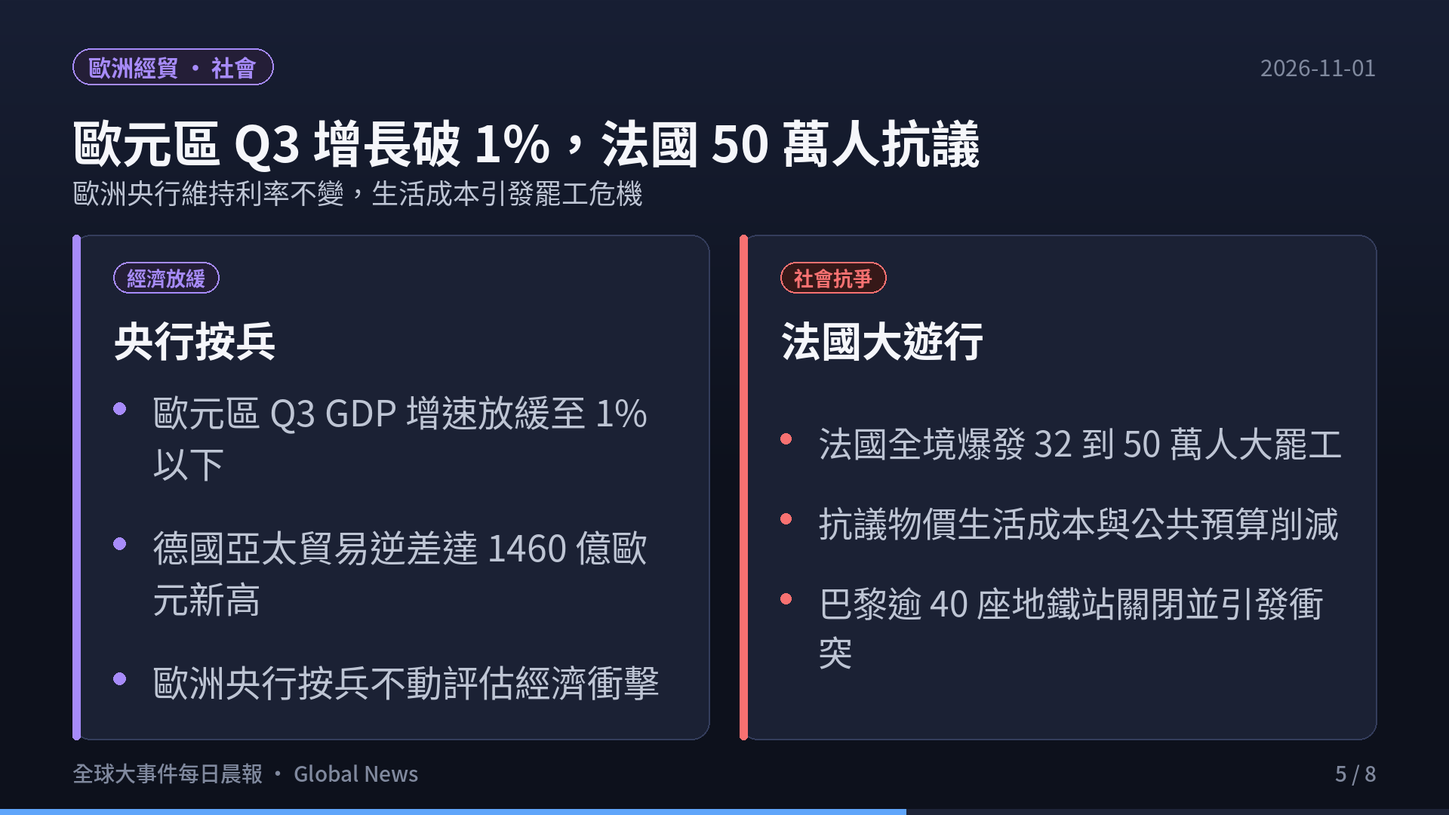
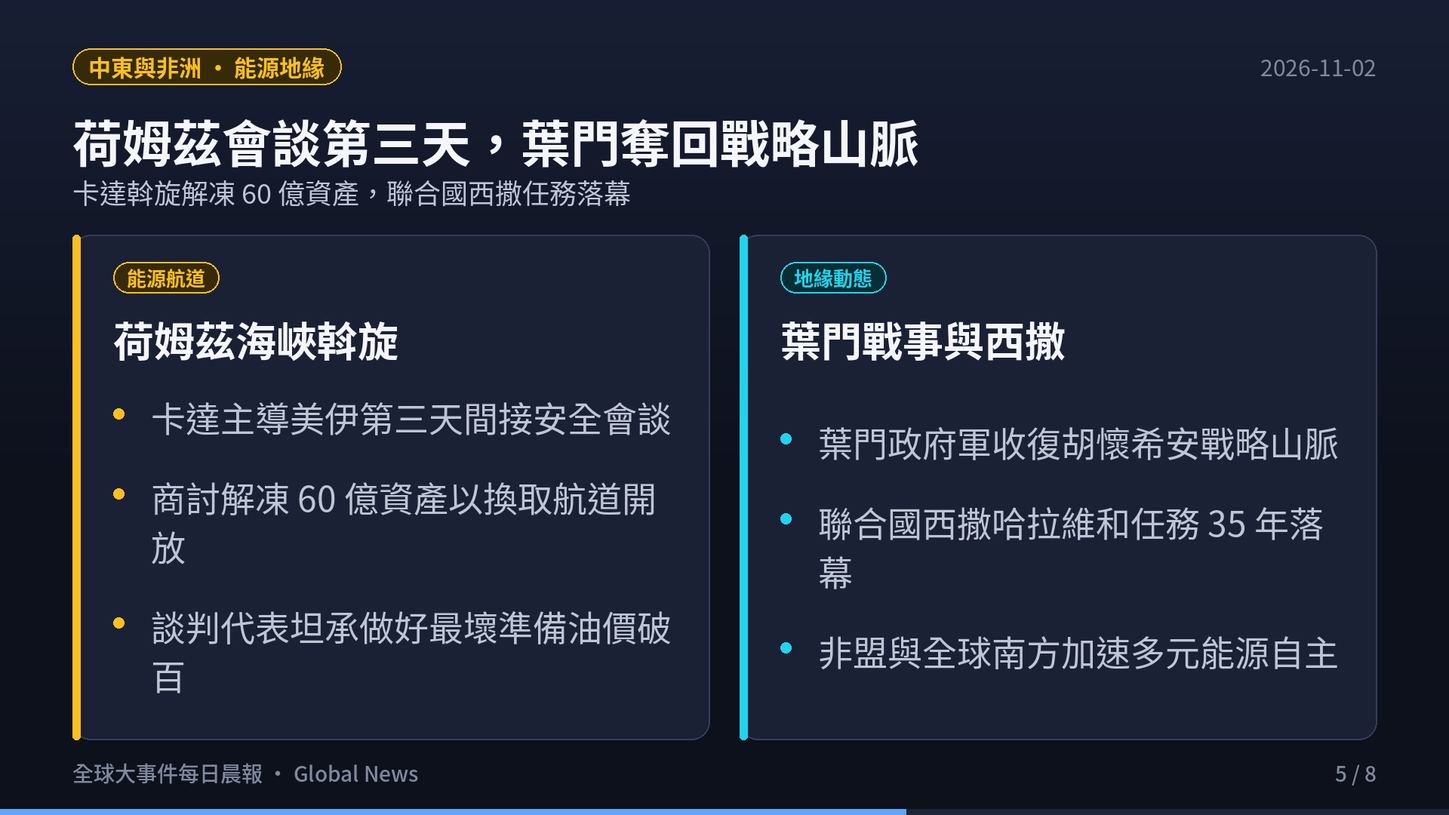
feat(blog): add global news daily report 2026-11-02 with slides and video

diff --git a/content/global-news/index.md b/content/global-news/index.md
@@ -1,26 +1,26 @@
 ---
-title: "全球大事件每日晨報 · 2026-11-01：G20 外長會無公報閉幕、美烏 21 億美元愛國者軍援與印太 Quad 供應鏈同盟"
+title: "全球大事件每日晨報 · 2026-11-02：烏土協議重啟黑海糧道、美伊荷姆茲海峽間接會談、法國罷工與德國示威失控"
 url: "/global-news/"
-date: 2026-11-01T05:30:00+08:00
+date: 2026-11-02T05:30:00+08:00
 draft: false
 image: cover.png
 cover: "https://ckw19810413.github.io/global-news/cover.png"
-description: "2026-11-01 全球重大事件深度解析：美歐亞非及各大經濟體最新動態。涵蓋 G20 外長會航道與關鍵礦產角力、美批准 21 億美元烏克蘭防空軍援、印太 Quad 供應鏈去風險化同盟、歐元區經濟放緩與法國 50 萬人大罷工、中東荷姆茲危機推升油價四連漲逼近 104 美元，以及全球前十大經濟體通膨與製造業分化。"
-tags: ["全球大事件", "國際局勢", "地緣政治", "G20", "Quad", "烏克蘭", "總體經濟", "供應鏈", "油價", "通膨"]
+description: "2026-11-02 全球重大事件深度解析：美歐亞非及各大經濟體最新動態。涵蓋烏克蘭與土耳其協議重啟黑海糧食走廊、卡達斡旋美伊解凍 60 億資產以換取荷姆茲海峽航行權、美期中選舉最後倒數司法攻防、法國 32 萬人生活成本大罷工、德國法蘭克福街頭失控搶劫、FBI 指控北韓涉幣安 60 億駭案，以及全球前十大經濟體核心總體數據全覽。"
+tags: ["全球大事件", "國際局勢", "地緣政治", "黑海糧道", "荷姆茲海峽", "烏克蘭", "總體經濟", "供應鏈", "油價", "通膨"]
 categories: ["國際局勢", "總體經濟"]
 aliases:
-  - "/blog/2026-11-01-global-news/"
-  - "/global-news/2026-11-01/"
+  - "/blog/2026-11-02-global-news/"
+  - "/global-news/2026-11-02/"
 ---
 
-> **觀測週期**：2026-11-01 晨間即時彙整  
+> **觀測週期**：2026-11-02 晨間即時彙整  
 > **情報涵蓋**：全球六大洲（北美、南美、歐洲、亞洲、中東、非洲、大洋洲）與全球前 10 大經濟體  
-> **核心來源**：G20 外長峰會閉幕聲明、各國央行利率決議、路透社（Reuters）、新華社（Xinhua）、Business Recorder、ApeWisdom 即時金融情報庫  
-> **定位宗旨**：以客觀數據、第一手官方公報與產業鏈結構為準繩，剔除短期情緒噪音，提煉出真正驅動全球資金流向與地緣版圖重構的核心脈絡。
+> **核心來源**：各國政府公報、路透社（Reuters）、新華社（Xinhua）、IMF 數據庫、ApeWisdom 即時金融情報庫  
+> **定位宗旨**：以客觀數據、官方決策與供應鏈結構為準繩，剔除短期情緒噪音，提煉出真正驅動全球資金流向與地緣版圖重構的核心脈絡。
 
 <div style="margin: 2rem 0; border-radius: 12px; overflow: hidden; box-shadow: 0 4px 20px rgba(0,0,0,0.12); border: 1px solid rgba(128,128,128,0.2);">
   <div style="position: relative; padding-bottom: 56.25%; height: 0; overflow: hidden; background: #0f121c;">
-    <iframe src="https://www.youtube.com/embed/npqcZFLGcnc" title="2026.11.01 全球大事件每日晨報" style="position: absolute; top:0; left: 0; width: 100%; height: 100%; border: 0;" allow="accelerometer; autoplay; clipboard-write; encrypted-media; gyroscope; picture-in-picture; web-share" allowfullscreen></iframe>
+    <iframe src="https://www.youtube.com/embed/Ch3fy4dV6qQ" title="2026.11.02 全球大事件每日晨報" style="position: absolute; top:0; left: 0; width: 100%; height: 100%; border: 0;" allow="accelerometer; autoplay; clipboard-write; encrypted-media; gyroscope; picture-in-picture; web-share" allowfullscreen></iframe>
   </div>
   <div style="background: rgba(0,0,0,0.03); padding: 10px 16px; font-size: 0.9rem; color: var(--card-text-color-secondary, #666); text-align: center; border-top: 1px solid rgba(128,128,128,0.15);">
     🎬 <strong>120 秒晨間快報影音動態版</strong>（含 AI 自然神經語音朗讀與背景配樂）
@@ -31,57 +31,65 @@ aliases:
 
 ## 🎯 今日全球前 6 大核心事件深度拆解
 
-![焦點 1：G20 外長會無公報閉幕](s02.png)
+![焦點 1：期中選舉最後倒數，法官駁回禁令訴訟](s02.png)
 
-### 1. 美洲與全球治理：G20 外長會無公報閉幕，航道自由與礦產分歧加深
-- **事件脈絡**：為期兩天的二十國集團（G20）外長會議在美國國務卿馬可·魯比歐（Marco Rubio）主持下閉幕。由於各成員國在烏克蘭戰事與美伊軍事緊張局勢上存在無法彌合的深層分歧，本次會議最終未能發表聯合公報（Joint Communique）。
-- **關鍵爭端**：
-  - **關鍵海運水道安全**：美方及其盟友在閉幕記者會上強烈強調荷姆茲海峽（Strait of Hormuz）與黑海（Black Sea）的航行自由與商業船舶通行權，指責伊朗與非國家行為體威脅全球能源命脈。
-  - **關鍵礦產與供應鏈**：大宗商品與關鍵礦產（稀土、鋰、鎳）供應鏈的安全保障成為多空角力中心，新興市場國家普遍對已開發國家的出口限制防衛性條款抱持高度戒心。
-- **美國內政聯動**：美國期中選舉（Midterm Elections）正式進入最後倒數週末，加州海外與郵寄選票認定、阿拉斯加參院席次之司法調查全面白熱化，政治不確定性導致美股高檔避險情緒升溫。
-
----
-
-![焦點 2：美批准 21 億美元愛國者軍援與烏南部人道停火](s03.png)
-
-### 2. 歐洲防務與地緣：美批准 21 億美元愛國者 PAC-3 軍援，烏南部奧列什基停火
-- **重大軍售案落定**：美國國務院於 10 月 31 日正式批准向烏克蘭出售 **500 枚愛國者三型（PAC-3）防空飛彈**，合約估計總值高達 **21 億美元**。此舉被視為川普第二任政府啟動以來對基輔最大規模的防禦性武器補給，旨在協助烏克蘭抵禦入冬後針對能源電網的飽和打擊。
-- **罕見局部人道停火**：
-  - 在梵蒂岡教宗以及多方國際斡旋之下，俄軍控制的赫爾松州南部城鎮奧列什基（Oleshky）實施為期 **6 天的局部人道停火**。
-  - 受困平民在缺水、斷電數年後首度獲准跨越前線撤離回烏克蘭控制區，這是俄烏爆發全面衝突以來持續時間最長的一次局部人道走廊。
+### 1. 美洲政局與資本市場：期中選舉進入最後倒數，法官駁回禁令訴訟，長債殖利率高企
+- **期中選舉司法訴訟定案**：
+  - 美國聯邦法官正式駁回了川普團隊要求阻止阿拉斯加州參院選舉結果認證的司法禁令申請，掃清了選舉認證程序的一項關鍵法律障礙。
+  - 兩黨在全美多個關鍵搖擺州針對海外選票認定與郵寄投票規則的攻防全面進入白熱化。
+- **無風險利率持續維持高檔**：
+  - 10 年期美債殖利率維持在 **4.92%** 的高檔震盪區間，持續壓抑美股市場的股權風險溢價（ERP）。
+  - 華爾街大型機構普遍收緊防禦倉位，將配置核心轉向兼具自由現金流與強大定價權的龍頭標的。
 
 ---
 
-![焦點 3：Quad 外長會深化關鍵礦產聯盟](s04.png)
+![焦點 2：烏土協議啟動黑海糧道，美軍援愛國者](s03.png)
 
-### 4. 亞洲與印太同盟：印太 Quad 外長深化聯盟，聯手反對關鍵礦產出口管制
-- **四方安全對話（Quad）聯合聲明**：美國、澳洲、印度與日本外長於 10 月 31 日在亞特蘭大發表聯合聲明，承諾共同構建具備高度韌性、去風險化的全球高科技供應鏈。
-- **反經濟脅迫與出口限制**：
-  - 聲明強烈譴責任何以非市場手段、任意管制出口為手段的「經濟脅迫（Economic Coercion）」，針對關鍵礦產與先進材料供應展開多邊協調機制。
-  - 日本對特定稀缺金屬出口禁令表達強烈關切；美國則加緊推動籌組 G20 礦產安全聯盟。
-- **美印雙邊協議推進**：美國與印度官方證實，兩國正針對雙邊先進防務合作、半導體投資與能源技術轉移協議加緊展開具體磋商，印度作為供應鏈替代樞紐的戰略地位持續鞏固。
-
----
-
-![焦點 5：歐元區經濟放緩與法國 50 萬人抗議](s05.png)
-
-### 4. 歐洲經貿與社會衝擊：歐元區 Q3 增長破 1% 央行按兵，法國 50 萬人上街抗議
-- **歐元區 GDP 顯著失速**：歐元區第三季經濟成長率（GDP）終值公布，年增率放緩至 **0.8% ~ 1.1%**，正式跌破象徵穩健復甦的 1% 門檻。歐洲央行（ECB）於 10 月 30 日利率會議上宣布維持基準利率不變，政策立場在通膨黏性與經濟衰退風險之間維持艱難平衡。
-- **德國亞太貿易逆差創歷史紀錄**：德國統計部門公布最新測算，2026 年德國對亞太地區貿易逆差預計將達到創紀錄的 **1,460 億歐元（約 1,630 億美元）**，德國傳統汽車與工業機械出口動能面臨結構性萎縮。
-- **法國全國大罷工**：
-  - 法國全境於週末爆發多達 **32 萬至 50 萬人**的大規模街頭抗議與罷工（巴黎示威人數達 7 萬至 20 萬）。
-  - 群眾抗議物價生活成本飛漲、公共服務預算大幅削減，巴黎公共交通營運商 RATP 緊急關閉逾 40 座地鐵站，部分街區爆發警民催淚瓦斯衝突。
+### 2. 歐洲防務與黑海走廊：烏土協議重啟黑海糧食走廊，美落實 21 億愛國者軍援
+- **重啟黑海民生航運通道**：
+  - 烏克蘭總統澤倫斯基抵達伊斯坦堡會晤土耳其總統艾爾段，雙方正式宣布達成全面協議，聯手推動重建「黑海糧食走廊（Black Sea Grain Corridor）」。
+  - 土耳其承諾全力支援黑海航道之安全巡弋與航行保障，防止國際糧價與肥料供應鏈再度因戰事受阻而暴漲。
+- **防空防禦系統落實交付**：
+  - 美國國務院落實向烏克蘭提供 **500 枚愛國者三型（PAC-3）防空飛彈**（總額 21 億美元），全面鞏固冬季防空電網。
+  - 赫爾松南部奧列什基（Oleshky）為期 6 天的罕見局部人道停火走廊持續運轉，協助前線受困平民安全撤離。
 
 ---
 
-![焦點 5：荷姆茲緊張油價連四漲與俄非核電合作](s06.png)
+![焦點 3：法國 32 萬人罷工，德法蘭克福街頭失控](s04.png)
 
-### 5. 中東能源危機與非洲基建：荷姆茲航道緊張油價四連漲，俄非簽署 2000MW 核電協議
-- **國際油價逼近 104 美元**：
-  - 荷姆茲海峽再度傳出油輪遭受襲擾警訊，引發全球原油海運供應鏈高度緊繃。
-  - 布蘭特原油期貨價格創下連續第四個月上漲，目前站穩每桶 **104 美元** 高檔，對全球抗通膨進程帶來嚴峻考驗。
-  - 沙烏地阿拉伯防空部隊在利雅德周邊攔截敵對無人機；伊朗外長阿拉格齊（Araghchi）公開表示「德黑蘭目前無意與美官員會面」，並由卡達與巴基斯坦擔任關鍵斡旋角色。
-- **俄羅斯在非擴張核能基建**：迦納外交部長在俄羅斯-非洲峰會後正式宣布，迦納已與俄羅斯達成合作開發 **2,000 MW（兆瓦）核能發電廠** 之協議，旨在根本解決西非電力短缺並推動本土工業化進程，凸顯全球南方國家在地緣博弈中的多元能源結盟取向。
+### 3. 歐洲社會與工業震盪：法國 32 萬人抗議生活成本，德國法蘭克福爆發搶劫與衝突
+- **法國全境抗爭浪潮**：
+  - 巴黎及全法各主要城市爆發超過 **32 萬人**的大規模示威抗議，工會與群眾強烈抗議物價生活成本居高不下以及公共財政預算的大幅削減。
+  - 警方在里昂、格勒諾布爾等多地動用催淚瓦斯維持秩序，部分公共運輸與市政服務陷入癱瘓。
+- **德國多地示威演變為失控暴力**：
+  - 德國法蘭克福等主要城市週末示威活動失控，出現沿街縱火焚燒路障與商店遭洗劫（Looting）的暴力事件，社會治安警報大作。
+- **英國企業寒冬**：
+  - 英國寬頻巨頭 Virgin Media O2 宣布將裁減數千名員工，凸顯高利率與消費緊縮對歐洲電信與通訊基建企業營運造成的實質擠壓。
+
+---
+
+![焦點 4：荷姆茲會談第三天，葉門奪回戰略山脈](s05.png)
+
+### 4. 中東能源航道與非洲安全：卡達斡旋美伊解凍 60 億資產，葉門政府軍收復戰略山脈
+- **荷姆茲海峽重啟談判角力**：
+  - 卡達擔任中介的美伊間接安全談判進入關鍵第三天，主要聚焦解凍伊朗被扣押的 **60 億美元** 海外資產，以換取重啟荷姆茲海峽之航行安全。
+  - 談判各方坦承「做好最壞打算（braced for worst）」，航運風險推升布蘭特原油持續站穩每桶 **104 美元** 高檔。
+- **葉門戰況取得突破**：
+  - 葉門政府軍在空軍掩護下發起攻勢，完全收復賈夫省胡懷希安（Huwayshian）戰略山脈，瓦解了胡塞武裝針對省會阿爾哈茲姆的第一道防禦線。
+- **聯合國西撒任務落幕**：
+  - 聯合國安理會未能就延長授權達成共識，維持了長達 **35 年** 的西撒哈拉維和任務（MINURSO）正式告終，北非地緣格局面臨重新洗牌。
+
+---
+
+![焦點 5：印度在野百萬集會，FBI 追幣安 60 億駭案](s06.png)
+
+### 5. 亞洲政局與網絡安全：印度在野陣營發動大規模集會，FBI 指控北韓涉幣安 60 億駭案
+- **印度在野陣營政治風暴**：
+  - 印度在野黨聯盟號召全印度數十萬人舉行大規模集會抗爭，強烈要求選委會主席辭職，引發外界對選舉中立性與國內政局穩定性的高度關注。
+  - 儘管政治雜音升溫，美日印澳 Quad 關鍵礦產與先進半導體防護網仍加速推進。
+- **FBI 揭露史上最大加密貨幣竊案之一**：
+  - 美國聯邦調查局（FBI）正式證實北韓國家駭客組織涉及 **60 億美元的幣安（Binance）駭客攻擊事件**。
+  - FBI 公開呼籲全球去中心化金融（DeFi）社群全面列入黑名單，凍結涉案比特幣（BTC）、以太坊（ETH）與 Solana（SOL）地址，引發鏈上資產安全大震盪。
 
 ---
 
@@ -89,18 +97,18 @@ aliases:
 
 ### 6. 全球前十大經濟體核心指標與趨勢橫向比較
 
-| 排名 | 國家 / 經濟體 | 核心總體經濟數據 / 最新指標 | 2026-11-01 即時動態與政策取向 | 全球產業鏈與市場意涵 |
+| 排名 | 國家 / 經濟體 | 核心總體經濟數據 / 最新指標 | 2026-11-02 即時動態與政策取向 | 全球產業鏈與市場意涵 |
 |:---:|:---|:---|:---|:---|
-| **1** | **美國 (USA)** | 10年期美債殖利率 **4.92%** | G20 外長會航道交鋒；期中選舉最後衝刺；國務院批准 21 億美元軍援 | 無風險利率維持高檔，股權風險溢價（ERP）壓縮，長線資金重視現金流。 |
-| **2** | **中國 (China)** | 10月官方製造業 PMI **49.8** | 官方製造業近 4 個月第 3 度陷入萎縮；房市與內需政策持續發力 | 工業復甦動能偏弱，市場聚焦進一步財政刺激力道與貨幣寬鬆節奏。 |
-| **3** | **德國 (Germany)** | Q3 GDP 年增 **1.0%** · 逆差 **€146B** | 對亞太貿易逆差創 1,460 億歐元歷史新高；能源轉型與工業成本高企 | 傳統製造業出口優勢受侵蝕，企業利潤率受到原物料與匯率雙重夾擊。 |
-| **4** | **日本 (Japan)** | 9月核心通膨指數 **3年新高** | 扣除一次性因素後核心物價飆升；日銀 (BOJ) 後續升息壓力骤增 | 日圓匯率防守戰持續，日債殖利率曲線面臨調整，牽動全球套息交易平倉。 |
-| **5** | **印度 (India)** | GDP 年增率維持 **6.8%** 高速 | 印太 Quad 關鍵礦產聯盟核心夥伴；美印經貿及安全協議加速談判 | 全球供應鏈南移之最大直接受惠者，孟買 Sensex 指數維持相對強勢。 |
-| **6** | **英國 (UK)** | 10月房價年增率創 **2024年1月來新低** | 央行高利率政策壓抑房貸需求；生活成本攀升導致消費者支出謹慎 | 內需零售與地產市場降溫，市場預期英國央行後續降息步伐可能加快。 |
-| **7** | **法國 (France)** | 示威人數達 **32~50 萬** · 評級維持 | 國際評級機構暫未降級，但 50 萬人全境大罷工凸顯公共財政赤字深層矛盾 | 政治與財政治理兩難，限制政府財政刺激空間，歐元匯價震盪。 |
-| **8** | **義大利 (Italy)** | 國債利差 (BTP-Bund) 保持穩定 | 歐元區經濟增速跌破 1%，依賴歐盟復甦基金支持基礎建設投資 | 南歐外圍國對高利率耐受度受考驗，財政緊縮限制實質經濟成長空間。 |
-| **9** | **加拿大 (Canada)** | 央行降息預期升溫 · 能源出口強勁 | 受益於國際油價逼近 104 美元，但受美加雙邊貿易壁壘議題牽動 | 能源商品出口支撐經常帳，但房地產貸款再融資壓力持續釋放。 |
-| **10** | **澳洲 (Australia)** | Q3 CPI 核心通膨 **超預期升溫** | 燃油與民生物資價格反彈；澳洲央行 (RBA) 降息預期破滅、升息風險再起 | 原物料出口獲利改善，但國內高通膨限制降息空間，家計債務負擔沉重。 |
+| **1** | **美國 (USA)** | 10年期美債殖利率 **4.92%** · 通膨 **3.6%** | 期中選舉最後衝刺；阿拉斯加訴訟遭駁回；21億軍援落實 | 長天期資金成本維持高檔，股權風險溢價受限，防禦型價值股獲資金青睞。 |
+| **2** | **中國 (China)** | 10月製造業 PMI **49.8** · 通膨 **1.0%** | 製造業接近景氣榮枯線邊緣；房市支持政策與降準降息窗口持續開啟 | 復甦動能穩步修復，內需消費與高端裝備製造為政策重點發力方向。 |
+| **3** | **德國 (Germany)** | 通膨率 **2.7%** · 亞太逆差創紀錄 | 法蘭克福示威失控搶劫；出口動能受高能耗成本與地緣摩擦雙重擠壓 | 歐洲經濟火車頭動能承壓，製造業外移與產業鏈去風險化迫在眉睫。 |
+| **4** | **日本 (Japan)** | 核心 CPI 通膨升至 **2.7%** · 債務 **199%** | 日銀升息壓力驟增；日圓匯率防守戰持續，套息交易平倉潮隱現 | 債券殖利率上限面臨考驗，全球資本流向受到日圓升值潛在衝擊。 |
+| **5** | **印度 (India)** | GDP 年增率 **6.8%** · 通膨 **5.0%** | 在野抗議升溫；印太 Quad 關鍵礦產聯盟核心夥伴；跨國製造投資湧入 | 作為全球供應鏈多元化替代樞紐，製造業外資流入維持強勁動能。 |
+| **6** | **英國 (UK)** | 通膨率 **3.3%** · 失業率 **5.3%** | Virgin Media O2 裁員數千人；生活成本上升壓抑內需消費支出 | 電信與基建成本削減反映高利率後遺症，市場預期英國央行降息呼聲升高。 |
+| **7** | **法國 (France)** | 通膨率 **2.4%** · 示威人數 **32 萬+** | 全國大規模抗議生活成本高漲與公共削減；巴黎交通及市政受嚴重干擾 | 財政赤字壓力限制政策擴張空間，社會福利支出與財政整頓矛盾難解。 |
+| **8** | **義大利 (Italy)** | 通膨率 **3.3%** · 債務佔比 **137.9%** | 歐元區成長放緩下國債利差維持穩定；高度依賴歐盟復甦基金資助 | 高負債水準對長期利率敏感度高，基礎建設投資成為維持經濟動能主軸。 |
+| **9** | **加拿大 (Canada)** | 通膨率 **2.8%** · 失業率 **6.5%** | 國際油價逼近 104 美元挹注經常帳；美加貿易走勢與房貸展期壓力並存 | 能源商品出口支撐本國貨幣，但家計部門房貸再融資成本持續增加。 |
+| **10** | **澳洲 (Australia)** | 通膨率 **3.9%** · 債務佔比 **52.6%** | 核心 CPI 通膨高企；澳洲央行 (RBA) 降息預期落空，甚至面臨緊縮壓力 | 原物料出口獲利維持穩健，但國內高物價與房貸利息使消費意願轉趨保守。 |
 
 ---
 
@@ -108,15 +116,15 @@ aliases:
 
 ![今日重點總結](s08.png)
 
-1. **地緣裂痕加劇與供應鏈版圖重構**：
-   - G20 外長會的「無公報閉幕」清楚表明，全球多邊協商框架正在退化，取而代之的是以 **Quad（美日印澳）**、**美烏雙邊軍援**、**俄非核能能源結盟** 為代表的區域排他性同盟。
-   - 關鍵礦產（稀土、鋰）與戰略航道（荷姆茲、黑海）的安全保障成為最核心的國家安全籌碼。
-2. **油價破百與「黏性通膨」捲土重來**：
-   - 布蘭特原油連續 4 個月上揚並逼近每桶 104 美元，加上日本、澳洲通膨指標超預期，正在粉碎全球央行「迅速全面降息」的樂觀幻想。
-   - 能源輸入型通膨可能使得成熟市場的高利率環境維持比預期更長的時間（Higher for Longer）。
-3. **宏觀分化環境下的資產配置紀律**：
-   - 在 10 年期美債殖利率維持在 4.9% 附近的背景下，現金與超短天期國庫券依然提供堅實的無風險收益屏障。
-   - 投資組合應降低對高負債、無實質現金流成長企業的敞口，優先布局具備**強大供應鏈定價權、不可替代真實數據與專利護城河**的全球領先企業。
+1. **戰略航道與關鍵基礎設施的地緣博弈**：
+   - 烏克蘭與土耳其聯手推動重啟 **黑海糧食走廊**，加上美伊在卡達斡旋下就 **荷姆茲海峽** 重啟展開談判，清楚表明能源與糧食通道已成為大國地緣斡旋的最核心籌碼。
+   - 任何航道談判的進退都將直接牽動布蘭特原油（逼近 104 美元）與大宗原物料走勢。
+2. **通膨黏性與歐美社會壓力的外溢效應**：
+   - 法國 32 萬人大罷工、德國法蘭克福街頭失控抢劫以及英國電信巨頭大幅裁員，表明長期高利率與輸入型通膨對已開發國家家庭與企業資產負債表的侵蝕已浮上檯面。
+   - 歐美央行降息空間受到通膨黏性與能源價格制約，全球貨幣寬鬆路徑遠比市場早期預期的更具顛簸性。
+3. **高利率分化格局下的資產配置守則**：
+   - 10 年期美債殖利率逼近 4.92%，資金成本的剛性上升要求投資人恪守「防禦優先、重質不重量」的紀律。
+   - 降低高負債與高槓桿標的敞口，聚焦於具備**真實現金流保護、核心技術壁壘與供應鏈定價權**的防禦型優質資產。
 
 ---
 

diff --git a/content/blog/2026-11-02-global-news/index.md b/content/blog/2026-11-02-global-news/index.md
@@ -1,0 +1,143 @@
+---
+title: "全球大事件每日晨報 · 2026-11-02：烏土協議重啟黑海糧道、美伊荷姆茲海峽間接會談、法國罷工與德國示威失控"
+url: "/global-news/"
+date: 2026-11-02T05:30:00+08:00
+draft: false
+image: cover.png
+cover: "https://ckw19810413.github.io/global-news/cover.png"
+description: "2026-11-02 全球重大事件深度解析：美歐亞非及各大經濟體最新動態。涵蓋烏克蘭與土耳其協議重啟黑海糧食走廊、卡達斡旋美伊解凍 60 億資產以換取荷姆茲海峽航行權、美期中選舉最後倒數司法攻防、法國 32 萬人生活成本大罷工、德國法蘭克福街頭失控搶劫、FBI 指控北韓涉幣安 60 億駭案，以及全球前十大經濟體核心總體數據全覽。"
+tags: ["全球大事件", "國際局勢", "地緣政治", "黑海糧道", "荷姆茲海峽", "烏克蘭", "總體經濟", "供應鏈", "油價", "通膨"]
+categories: ["國際局勢", "總體經濟"]
+aliases:
+  - "/blog/2026-11-02-global-news/"
+  - "/global-news/2026-11-02/"
+---
+
+> **觀測週期**：2026-11-02 晨間即時彙整  
+> **情報涵蓋**：全球六大洲（北美、南美、歐洲、亞洲、中東、非洲、大洋洲）與全球前 10 大經濟體  
+> **核心來源**：各國政府公報、路透社（Reuters）、新華社（Xinhua）、IMF 數據庫、ApeWisdom 即時金融情報庫  
+> **定位宗旨**：以客觀數據、官方決策與供應鏈結構為準繩，剔除短期情緒噪音，提煉出真正驅動全球資金流向與地緣版圖重構的核心脈絡。
+
+<div style="margin: 2rem 0; border-radius: 12px; overflow: hidden; box-shadow: 0 4px 20px rgba(0,0,0,0.12); border: 1px solid rgba(128,128,128,0.2);">
+  <div style="position: relative; padding-bottom: 56.25%; height: 0; overflow: hidden; background: #0f121c;">
+    <iframe src="https://www.youtube.com/embed/Ch3fy4dV6qQ" title="2026.11.02 全球大事件每日晨報" style="position: absolute; top:0; left: 0; width: 100%; height: 100%; border: 0;" allow="accelerometer; autoplay; clipboard-write; encrypted-media; gyroscope; picture-in-picture; web-share" allowfullscreen></iframe>
+  </div>
+  <div style="background: rgba(0,0,0,0.03); padding: 10px 16px; font-size: 0.9rem; color: var(--card-text-color-secondary, #666); text-align: center; border-top: 1px solid rgba(128,128,128,0.15);">
+    🎬 <strong>120 秒晨間快報影音動態版</strong>（含 AI 自然神經語音朗讀與背景配樂）
+  </div>
+</div>
+
+---
+
+## 🎯 今日全球前 6 大核心事件深度拆解
+
+![焦點 1：期中選舉最後倒數，法官駁回禁令訴訟](s02.png)
+
+### 1. 美洲政局與資本市場：期中選舉進入最後倒數，法官駁回禁令訴訟，長債殖利率高企
+- **期中選舉司法訴訟定案**：
+  - 美國聯邦法官正式駁回了川普團隊要求阻止阿拉斯加州參院選舉結果認證的司法禁令申請，掃清了選舉認證程序的一項關鍵法律障礙。
+  - 兩黨在全美多個關鍵搖擺州針對海外選票認定與郵寄投票規則的攻防全面進入白熱化。
+- **無風險利率持續維持高檔**：
+  - 10 年期美債殖利率維持在 **4.92%** 的高檔震盪區間，持續壓抑美股市場的股權風險溢價（ERP）。
+  - 華爾街大型機構普遍收緊防禦倉位，將配置核心轉向兼具自由現金流與強大定價權的龍頭標的。
+
+---
+
+![焦點 2：烏土協議啟動黑海糧道，美軍援愛國者](s03.png)
+
+### 2. 歐洲防務與黑海走廊：烏土協議重啟黑海糧食走廊，美落實 21 億愛國者軍援
+- **重啟黑海民生航運通道**：
+  - 烏克蘭總統澤倫斯基抵達伊斯坦堡會晤土耳其總統艾爾段，雙方正式宣布達成全面協議，聯手推動重建「黑海糧食走廊（Black Sea Grain Corridor）」。
+  - 土耳其承諾全力支援黑海航道之安全巡弋與航行保障，防止國際糧價與肥料供應鏈再度因戰事受阻而暴漲。
+- **防空防禦系統落實交付**：
+  - 美國國務院落實向烏克蘭提供 **500 枚愛國者三型（PAC-3）防空飛彈**（總額 21 億美元），全面鞏固冬季防空電網。
+  - 赫爾松南部奧列什基（Oleshky）為期 6 天的罕見局部人道停火走廊持續運轉，協助前線受困平民安全撤離。
+
+---
+
+![焦點 3：法國 32 萬人罷工，德法蘭克福街頭失控](s04.png)
+
+### 3. 歐洲社會與工業震盪：法國 32 萬人抗議生活成本，德國法蘭克福爆發搶劫與衝突
+- **法國全境抗爭浪潮**：
+  - 巴黎及全法各主要城市爆發超過 **32 萬人**的大規模示威抗議，工會與群眾強烈抗議物價生活成本居高不下以及公共財政預算的大幅削減。
+  - 警方在里昂、格勒諾布爾等多地動用催淚瓦斯維持秩序，部分公共運輸與市政服務陷入癱瘓。
+- **德國多地示威演變為失控暴力**：
+  - 德國法蘭克福等主要城市週末示威活動失控，出現沿街縱火焚燒路障與商店遭洗劫（Looting）的暴力事件，社會治安警報大作。
+- **英國企業寒冬**：
+  - 英國寬頻巨頭 Virgin Media O2 宣布將裁減數千名員工，凸顯高利率與消費緊縮對歐洲電信與通訊基建企業營運造成的實質擠壓。
+
+---
+
+![焦點 4：荷姆茲會談第三天，葉門奪回戰略山脈](s05.png)
+
+### 4. 中東能源航道與非洲安全：卡達斡旋美伊解凍 60 億資產，葉門政府軍收復戰略山脈
+- **荷姆茲海峽重啟談判角力**：
+  - 卡達擔任中介的美伊間接安全談判進入關鍵第三天，主要聚焦解凍伊朗被扣押的 **60 億美元** 海外資產，以換取重啟荷姆茲海峽之航行安全。
+  - 談判各方坦承「做好最壞打算（braced for worst）」，航運風險推升布蘭特原油持續站穩每桶 **104 美元** 高檔。
+- **葉門戰況取得突破**：
+  - 葉門政府軍在空軍掩護下發起攻勢，完全收復賈夫省胡懷希安（Huwayshian）戰略山脈，瓦解了胡塞武裝針對省會阿爾哈茲姆的第一道防禦線。
+- **聯合國西撒任務落幕**：
+  - 聯合國安理會未能就延長授權達成共識，維持了長達 **35 年** 的西撒哈拉維和任務（MINURSO）正式告終，北非地緣格局面臨重新洗牌。
+
+---
+
+![焦點 5：印度在野百萬集會，FBI 追幣安 60 億駭案](s06.png)
+
+### 5. 亞洲政局與網絡安全：印度在野陣營發動大規模集會，FBI 指控北韓涉幣安 60 億駭案
+- **印度在野陣營政治風暴**：
+  - 印度在野黨聯盟號召全印度數十萬人舉行大規模集會抗爭，強烈要求選委會主席辭職，引發外界對選舉中立性與國內政局穩定性的高度關注。
+  - 儘管政治雜音升溫，美日印澳 Quad 關鍵礦產與先進半導體防護網仍加速推進。
+- **FBI 揭露史上最大加密貨幣竊案之一**：
+  - 美國聯邦調查局（FBI）正式證實北韓國家駭客組織涉及 **60 億美元的幣安（Binance）駭客攻擊事件**。
+  - FBI 公開呼籲全球去中心化金融（DeFi）社群全面列入黑名單，凍結涉案比特幣（BTC）、以太坊（ETH）與 Solana（SOL）地址，引發鏈上資產安全大震盪。
+
+---
+
+![焦點 6：全球前十大經濟體動態](s07.png)
+
+### 6. 全球前十大經濟體核心指標與趨勢橫向比較
+
+| 排名 | 國家 / 經濟體 | 核心總體經濟數據 / 最新指標 | 2026-11-02 即時動態與政策取向 | 全球產業鏈與市場意涵 |
+|:---:|:---|:---|:---|:---|
+| **1** | **美國 (USA)** | 10年期美債殖利率 **4.92%** · 通膨 **3.6%** | 期中選舉最後衝刺；阿拉斯加訴訟遭駁回；21億軍援落實 | 長天期資金成本維持高檔，股權風險溢價受限，防禦型價值股獲資金青睞。 |
+| **2** | **中國 (China)** | 10月製造業 PMI **49.8** · 通膨 **1.0%** | 製造業接近景氣榮枯線邊緣；房市支持政策與降準降息窗口持續開啟 | 復甦動能穩步修復，內需消費與高端裝備製造為政策重點發力方向。 |
+| **3** | **德國 (Germany)** | 通膨率 **2.7%** · 亞太逆差創紀錄 | 法蘭克福示威失控搶劫；出口動能受高能耗成本與地緣摩擦雙重擠壓 | 歐洲經濟火車頭動能承壓，製造業外移與產業鏈去風險化迫在眉睫。 |
+| **4** | **日本 (Japan)** | 核心 CPI 通膨升至 **2.7%** · 債務 **199%** | 日銀升息壓力驟增；日圓匯率防守戰持續，套息交易平倉潮隱現 | 債券殖利率上限面臨考驗，全球資本流向受到日圓升值潛在衝擊。 |
+| **5** | **印度 (India)** | GDP 年增率 **6.8%** · 通膨 **5.0%** | 在野抗議升溫；印太 Quad 關鍵礦產聯盟核心夥伴；跨國製造投資湧入 | 作為全球供應鏈多元化替代樞紐，製造業外資流入維持強勁動能。 |
+| **6** | **英國 (UK)** | 通膨率 **3.3%** · 失業率 **5.3%** | Virgin Media O2 裁員數千人；生活成本上升壓抑內需消費支出 | 電信與基建成本削減反映高利率後遺症，市場預期英國央行降息呼聲升高。 |
+| **7** | **法國 (France)** | 通膨率 **2.4%** · 示威人數 **32 萬+** | 全國大規模抗議生活成本高漲與公共削減；巴黎交通及市政受嚴重干擾 | 財政赤字壓力限制政策擴張空間，社會福利支出與財政整頓矛盾難解。 |
+| **8** | **義大利 (Italy)** | 通膨率 **3.3%** · 債務佔比 **137.9%** | 歐元區成長放緩下國債利差維持穩定；高度依賴歐盟復甦基金資助 | 高負債水準對長期利率敏感度高，基礎建設投資成為維持經濟動能主軸。 |
+| **9** | **加拿大 (Canada)** | 通膨率 **2.8%** · 失業率 **6.5%** | 國際油價逼近 104 美元挹注經常帳；美加貿易走勢與房貸展期壓力並存 | 能源商品出口支撐本國貨幣，但家計部門房貸再融資成本持續增加。 |
+| **10** | **澳洲 (Australia)** | 通膨率 **3.9%** · 債務佔比 **52.6%** | 核心 CPI 通膨高企；澳洲央行 (RBA) 降息預期落空，甚至面臨緊縮壓力 | 原物料出口獲利維持穩健，但國內高物價與房貸利息使消費意願轉趨保守。 |
+
+---
+
+## 💡 總結與投資者生存指南
+
+![今日重點總結](s08.png)
+
+1. **戰略航道與關鍵基礎設施的地緣博弈**：
+   - 烏克蘭與土耳其聯手推動重啟 **黑海糧食走廊**，加上美伊在卡達斡旋下就 **荷姆茲海峽** 重啟展開談判，清楚表明能源與糧食通道已成為大國地緣斡旋的最核心籌碼。
+   - 任何航道談判的進退都將直接牽動布蘭特原油（逼近 104 美元）與大宗原物料走勢。
+2. **通膨黏性與歐美社會壓力的外溢效應**：
+   - 法國 32 萬人大罷工、德國法蘭克福街頭失控抢劫以及英國電信巨頭大幅裁員，表明長期高利率與輸入型通膨對已開發國家家庭與企業資產負債表的侵蝕已浮上檯面。
+   - 歐美央行降息空間受到通膨黏性與能源價格制約，全球貨幣寬鬆路徑遠比市場早期預期的更具顛簸性。
+3. **高利率分化格局下的資產配置守則**：
+   - 10 年期美債殖利率逼近 4.92%，資金成本的剛性上升要求投資人恪守「防禦優先、重質不重量」的紀律。
+   - 降低高負債與高槓桿標的敞口，聚焦於具備**真實現金流保護、核心技術壁壘與供應鏈定價權**的防禦型優質資產。
+
+---
+
+### ☕ 支持與精選推薦
+
+如果你覺得這份每日晨報對你的宏觀視野與決策有實質幫助，歡迎透過以下方式支持我們持續產出深度內容：
+
+- ☕ **請我喝杯咖啡**：[Ko-fi 小費贊助 (ytstories0413)](https://ko-fi.com/ytstories0413) 或 [Ko-fi 贊助 (slashman413)](https://ko-fi.com/slashman413)（支持每日自動化爬蟲、語音合成與雲端運算）
+- 📚 **數位產品與高人效生產力工具**：
+  - [Gumroad 數位商品專區](https://slashmaster6.gumroad.com/)：收錄精選 AI Prompt 庫、生產力自動化工作流與實戰腳本
+  - [飛書精選高人效商業模板庫](https://slashmaster6.gumroad.com/l/xohjh)：助你一人公司高效運營，打通專案管理與自動化數據流
+  - [SlashmanTools 免費 Web 工具集](https://slashmantools.us/)：Token 成本計算器、顯存預估、開源 AI 工具導航
+- 📖 **精選經典閱讀推薦**：
+  - [《晶片戰爭》（Chip War）](https://www.amazon.com/dp/059371671X?tag=ytstories0413-20)：理解全球晶片霸權與印太供應鏈重組的必讀經典
+  - [《原子習慣》— 細微改變帶來巨大成就](https://www.books.com.tw/products/0010792915)
+  - [《人生的智慧》— 叔本華處世哲學經典](https://www.books.com.tw/products/0010613113)
